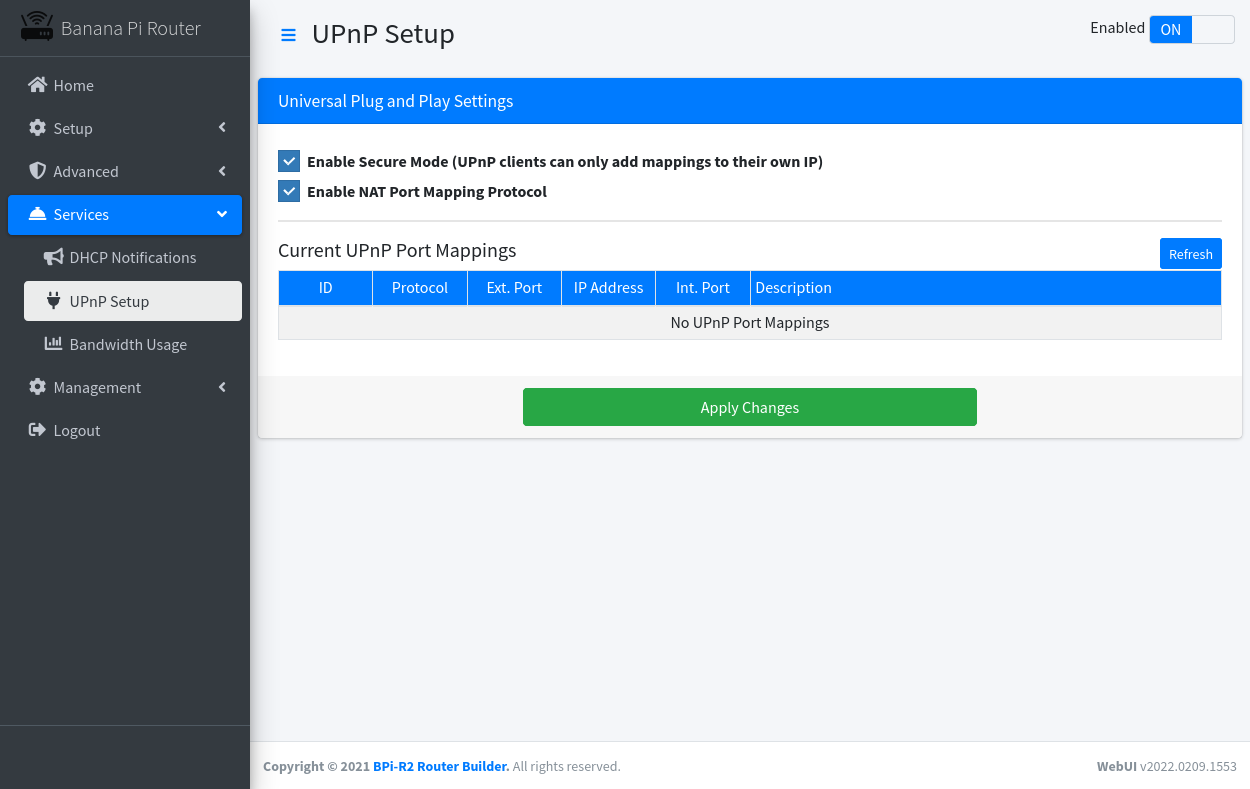
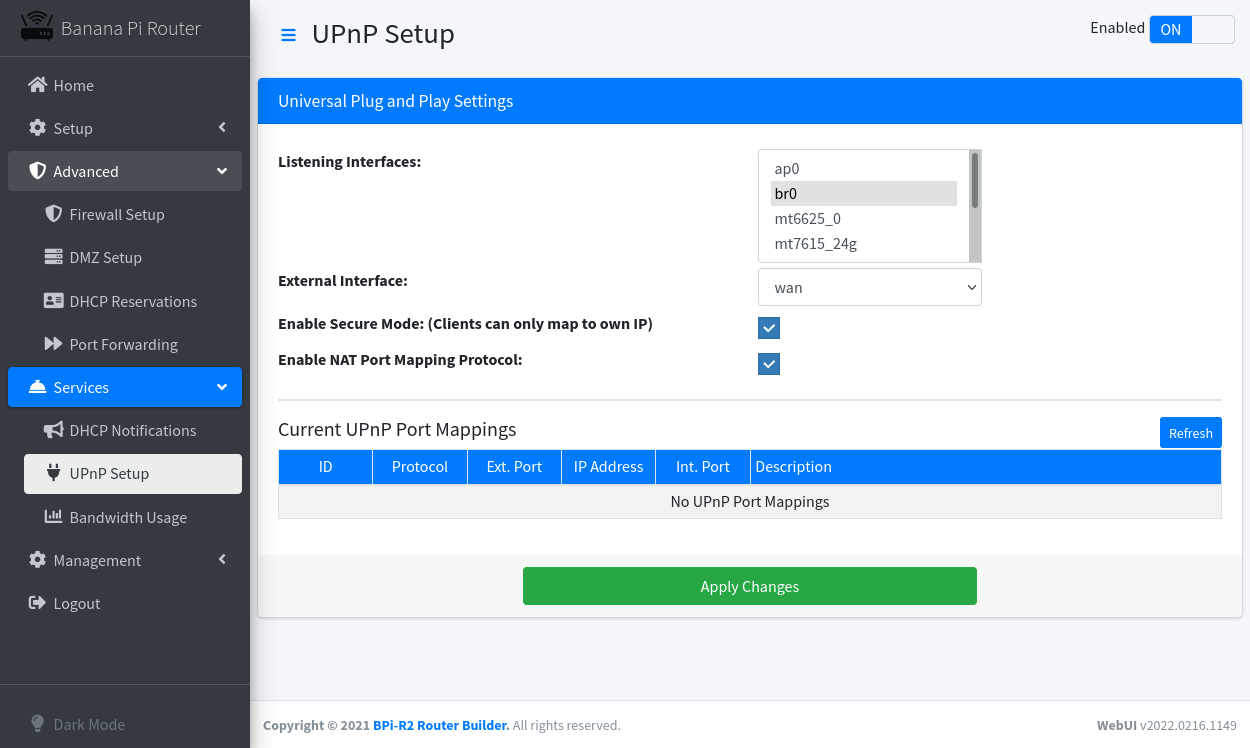
Updated WebUI Services / UPnP Setup

diff --git a/router/js/site-services.js b/router/js/site-services.js
@@ -49,12 +49,12 @@ function UPnP_Submit()
 
 	// Assemble the post data for the AJAX call:
 	postdata = {
-		'sid':       SID,
-		'action':    'submit',
-		'secure':    $("#secure_mode").prop("checked") ? "Y" : "N",
-		'natpmp':    $("#enable_natpmp").prop("checked") ? "Y" : "N",
-		'ext_iface': $("#ext_iface").val(),
-		'listen':    $("#listening_on").val().join(","),
+		'sid':           SID,
+		'action':        'submit',
+		'secure_mode':   $("#secure_mode").prop("checked") ? "Y" : "N",
+		'enable_natpmp': $("#enable_natpmp").prop("checked") ? "Y" : "N",
+		'ext_ifname':    $("#ext_ifname").val(),
+		'listening_ip':  $("#listening_ip").val().join(","),
 	};
 	//alert(JSON.stringify(postdata, null, 5)); return;
 

diff --git a/router/includes/services-upnp.php b/router/includes/services-upnp.php
@@ -47,6 +47,10 @@ if (isset($_POST['action']))
 	#################################################################################################
 	if ($_POST['action'] == 'submit')
 	{
+		$options['enable_natpmp'] = option("enable_natpmp") == "Y" ? "yes" : "no";
+		$options['secure_mode'] = option("secure_mode") == "Y" ? "yes" : "no";
+		$options['ext_ifname'] = option_allowed("ext_ifname", $ext_ifaces);
+		$options['listening_ip'] = option_allowed("listening_ip", $valid_listen, false);
 		apply_options("upnp");
 		die(shell_exec('/opt/bpi-r2-router-builder/helpers/router-helper.sh upnp move restart'));
 	}
@@ -72,8 +76,8 @@ foreach (explode(" ", $options['listening_ip']) as $tface)
 	$listen[$tface] = $tface;
 #echo '<pre>'; print_r($listen); exit();
 
-$options['upnp_secure'] = trim(@shell_exec("cat /etc/miniupnpd/miniupnpd.conf | grep '^secure_mode' | cut -d= -f 2")) == "yes" ? "Y" : "N";
-$options['upnp_natpmp'] = trim(@shell_exec("cat /etc/miniupnpd/miniupnpd.conf | grep '^enable_natpmp' | cut -d= -f 2")) == "yes" ? "Y" : "N";
+$options['secure_mode'] = $options['secure_mode'] == "yes" ? "Y" : "N";
+$options['enable_natpmp'] = $options['enable_natpmp'] == "yes" ? "Y" : "N";
 $service_enabled = trim(@shell_exec("systemctl is-active miniupnpd")) == "active";
 #echo (int) $service_enabled; exit;
 site_menu(true, "Enabled", $service_enabled);
@@ -114,14 +118,15 @@ echo '
 		</div>
 		<div class="row" style="margin-top: 5px">
 			<div class="col-6">
-				<label for="ext_iface">External Interface:</label>
+				<label for="ext_ifname">External Interface:</label>
 			</div>
 			<div class="col-3">
-				<select class="form-control" id="ext_iface">';
+				<select class="form-control" id="ext_ifname">';
+$listening = explode(" ", $options['listening_ip']);
 foreach ($ext_ifaces as $tface)
 {
 	echo '
-					<option value="', $tface, '"', $options['listening_ip'] == $tface ? ' selected="selected"' : '', '>' . $tface . '</option>';
+					<option value="', $tface, '"', in_array($tface, $listening) ? ' selected="selected"' : '', '>' . $tface . '</option>';
 }
 echo '
 				</select>

diff --git a/router/includes/subs/site.php b/router/includes/subs/site.php
@@ -444,7 +444,6 @@ function parse_options($file = '/etc/default/router-settings')
 function option($name, $allowed = "/^[Y|N|yes|no]$/", $post = true)
 {
 	global $options, $options_changed;
-	$convert = array("yes" => "Y", "no" => "N");
 	if ($post)
 		$tmp = isset($_POST[$name]) ? $_POST[$name] : '';
 	else
@@ -452,7 +451,7 @@ function option($name, $allowed = "/^[Y|N|yes|no]$/", $post = true)
 	if (empty($allowed) || !preg_match($allowed, $tmp))
 		die('ERROR: Missing or invalid value for option "' . $name . '"!');
 	$options_changed |= !isset($options[$name]) || $options[$name] != $tmp;
-	return isset($convert[$tmp]) ? $convert[$tmp] : $tmp;
+	return $tmp;
 }
 
 function in_array_all($needles, $haystack) 
